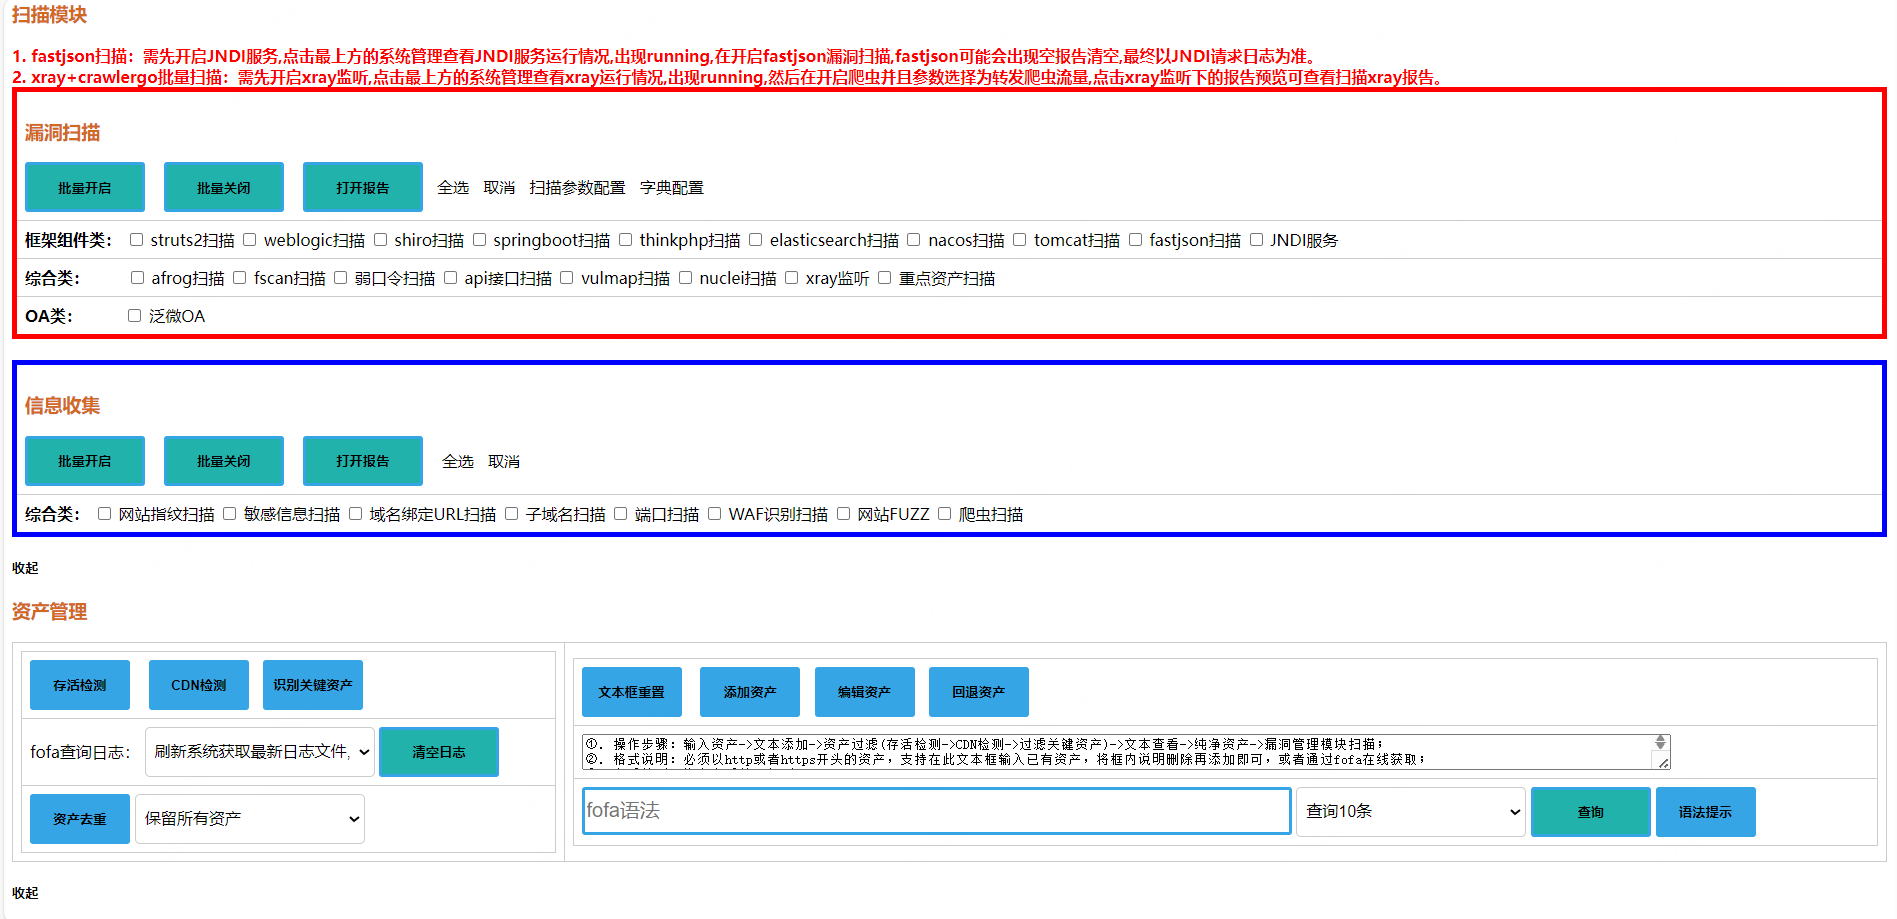
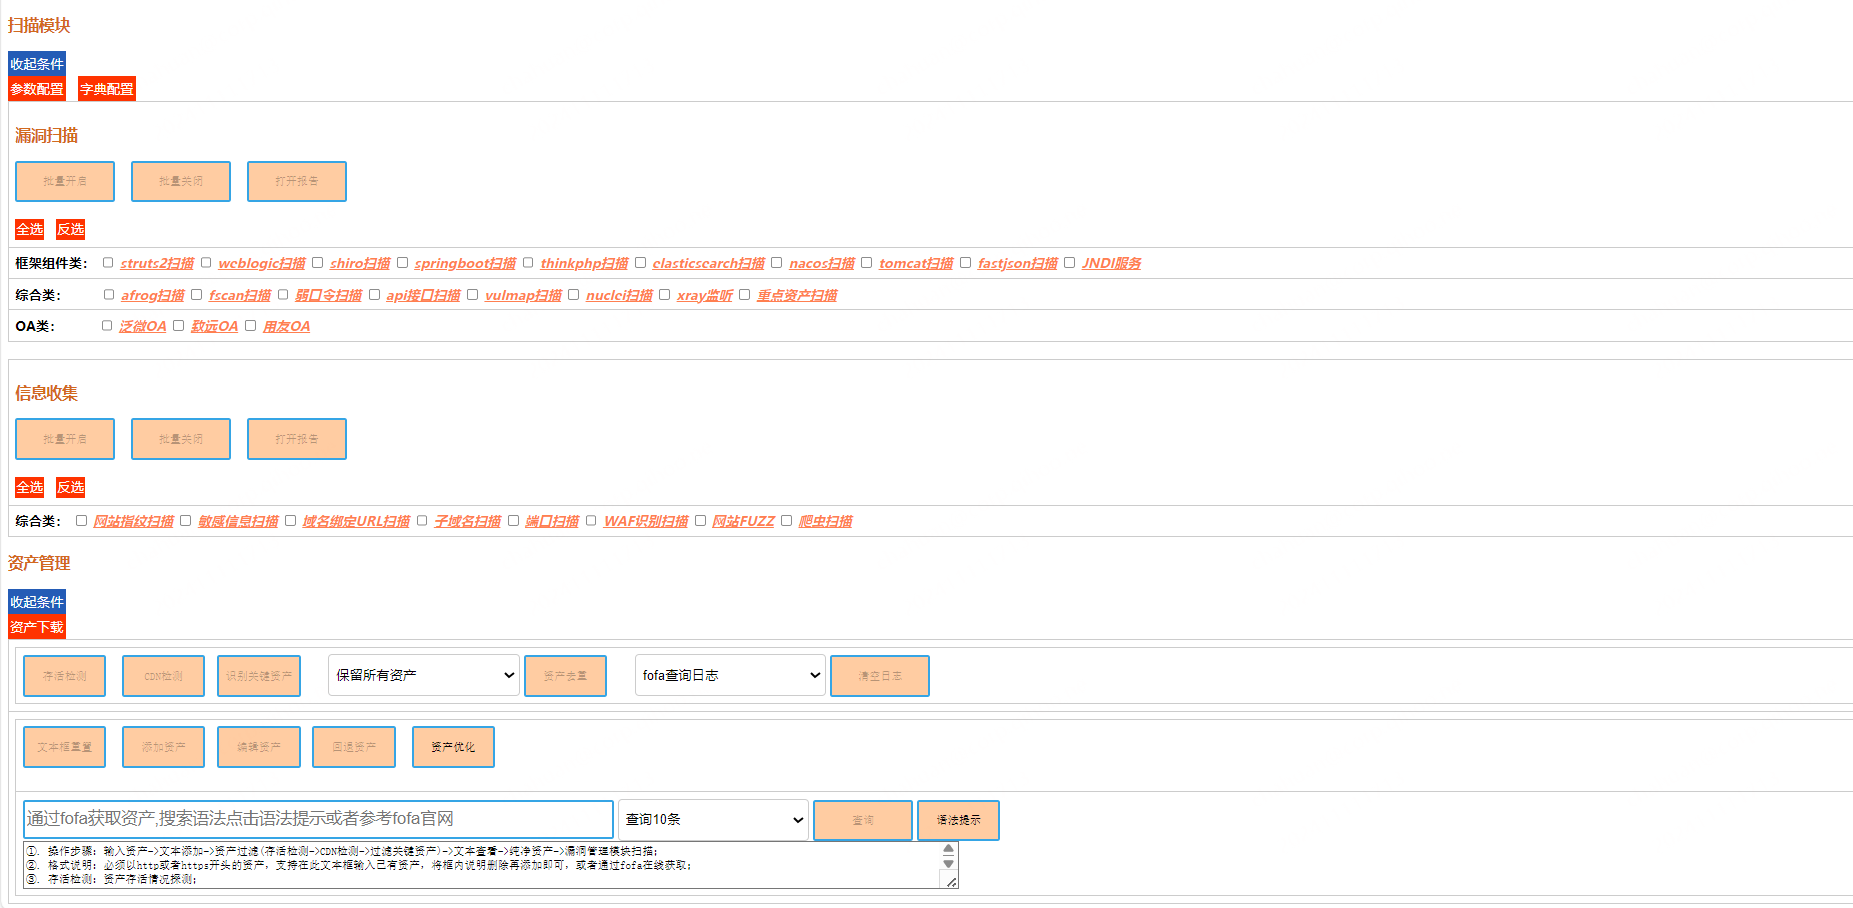
系统优化

Changed region(s): [[0.0, 0.0, 1.0, 0.9868], [0.9843, 0.7093, 1.0, 0.7401]]

diff --git a/templates/index.html b/templates/index.html
@@ -897,7 +897,9 @@ poc显示区域</textarea>
 	</div>
 	<h3>扫描模块</h3>
 
-	<h5 onclick="vulnmanagerzhankaifunc()" id="vulnid2" style="cursor: pointer;">展开</h3>
+	
+		<span onclick="vulnmanagerzhankaifunc()" id="vulnid2" style="cursor: pointer;" class="zhankaizhedie">展开条件</span>
+		<span onclick="vulnmanagerzhediefunc()" id="vulnid3" style="display:none; cursor: pointer;" class="zhankaizhedie">收起条件</span>
 		<div style="display:none;" id="vulnid1">
 			<span onclick="startscanconfigpagefunc()" style="cursor: pointer;"
 				class="my-spanconfig">参数配置</span>&nbsp;&nbsp;
@@ -977,6 +979,8 @@ poc显示区域</textarea>
 						<label for="option14" class="my-label">泛微OA</label>
 						<input type="checkbox" id="option22" name="option" value="k">
 						<label for="option22" class="my-label">致远OA</label>
+						<input type="checkbox" id="option23" name="option" value="l">
+						<label for="option23" class="my-label">用友OA</label>
 
 					</td>
 				</tr>
@@ -1024,10 +1028,10 @@ poc显示区域</textarea>
 
 
 		</div>
-		<h5 onclick="vulnmanagerzhediefunc()" id="vulnid3" style="display:none; cursor: pointer;">收起</h5>
+		
 		<h3>资产管理</h3>
-		<h5 onclick="assetmanagerzhankaifunc()" id="assetid2" style="cursor: pointer;">展开</h3>
-
+		<span onclick="assetmanagerzhankaifunc()" id="assetid2" style="cursor: pointer;" class="zhankaizhedie">展开条件</span>
+		<span onclick="assetmanagerzhediefunc()" id="assetid3" style="display:none;cursor: pointer;" class="zhankaizhedie">收起条件</span>
 			<div style="display:none;" id="assetid1">
 				<span class="my-spanconfig" onclick="assetdownloadfunc()">资产下载</span>
 				
@@ -1123,7 +1127,7 @@ poc显示区域</textarea>
 					</tr>
 				</table>
 			</div>
-			<h5 onclick="assetmanagerzhediefunc()" id="assetid3" style="display:none;cursor: pointer;">收起</h5>
+			
 </body>
 
 </html>

diff --git a/static/css/common.css b/static/css/common.css
@@ -356,6 +356,7 @@
 			color: white; /* 文本颜色设置为白色，以便在橙色背景上可见 */
 			text-align: center;
 			cursor: pointer;
+			line-height: 25px;
 		  }
 		.my-input {
 			height: 40px;
@@ -385,6 +386,7 @@
 			display: inline-block; /* 使span可以设置宽高 */
 			width:70px; 
 			height: 30px; 
+			line-height: 30px;
 			background-color: rgb(255, 51, 0); /* 背景颜色设置为橙色 */
 			color: white; /* 文本颜色设置为白色，以便在橙色背景上可见 */
 			text-align: center;
@@ -397,3 +399,14 @@
 			font-style: italic;
 			cursor: pointer;
 		  }
+
+		  .zhankaizhedie {
+			display: inline-block; /* 使span可以设置宽高 */
+			width:70px; 
+			height: 30px; 
+			background-color: rgb(36, 92, 182); /* 背景颜色设置为橙色 */
+			color: white; /* 文本颜色设置为白色，以便在橙色背景上可见 */
+			text-align: center;
+			cursor: pointer;
+			line-height: 30px;
+		  } 

diff --git a/readme.md b/readme.md
@@ -270,7 +270,6 @@ bilibili教程: https://www.bilibili.com/video/BV1Gt28YFEr3
 ├── /TIP<br>
 │   ├── info_scan<br>
 │   ├── batch_scan_domain<br><br>
-<img src="https://raw.githubusercontent.com/huan-cdm/info_scan/main/images/index.png"/><br><br>
 项目部署目录<br><br>
 <img src="https://raw.githubusercontent.com/huan-cdm/info_scan/main/images/project.png"/><br><br>
 程序文件<br><br>
@@ -282,7 +281,7 @@ bilibili教程: https://www.bilibili.com/video/BV1Gt28YFEr3
 <img src="https://raw.githubusercontent.com/huan-cdm/info_scan/main/images/login2.jpg"/><br><br>
 IP基础信息查询<br><br>
 <img src="https://raw.githubusercontent.com/huan-cdm/info_scan/main/images/ipbasicinfo.png"/><br><br>
-系统折叠展开<br><br>
+展开收起<br><br>
 <img src="https://raw.githubusercontent.com/huan-cdm/info_scan/main/images/zhedie.png"/><br><br>
 <img src="https://raw.githubusercontent.com/huan-cdm/info_scan/main/images/zhankai.png"/><br><br>
 <img src="https://raw.githubusercontent.com/huan-cdm/info_scan/main/images/partconfigpage.png"/><br><br>
